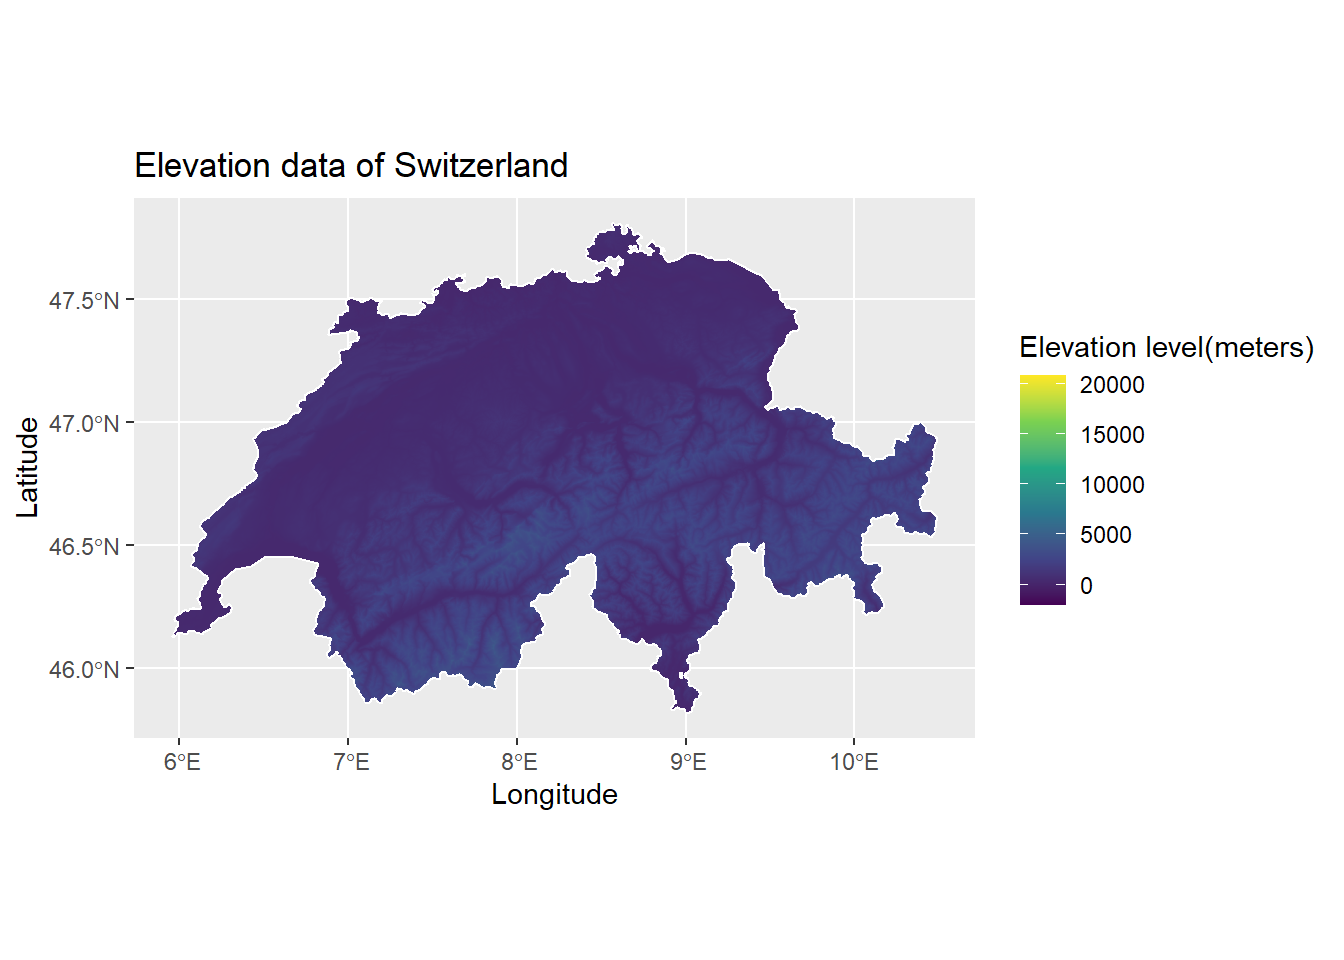
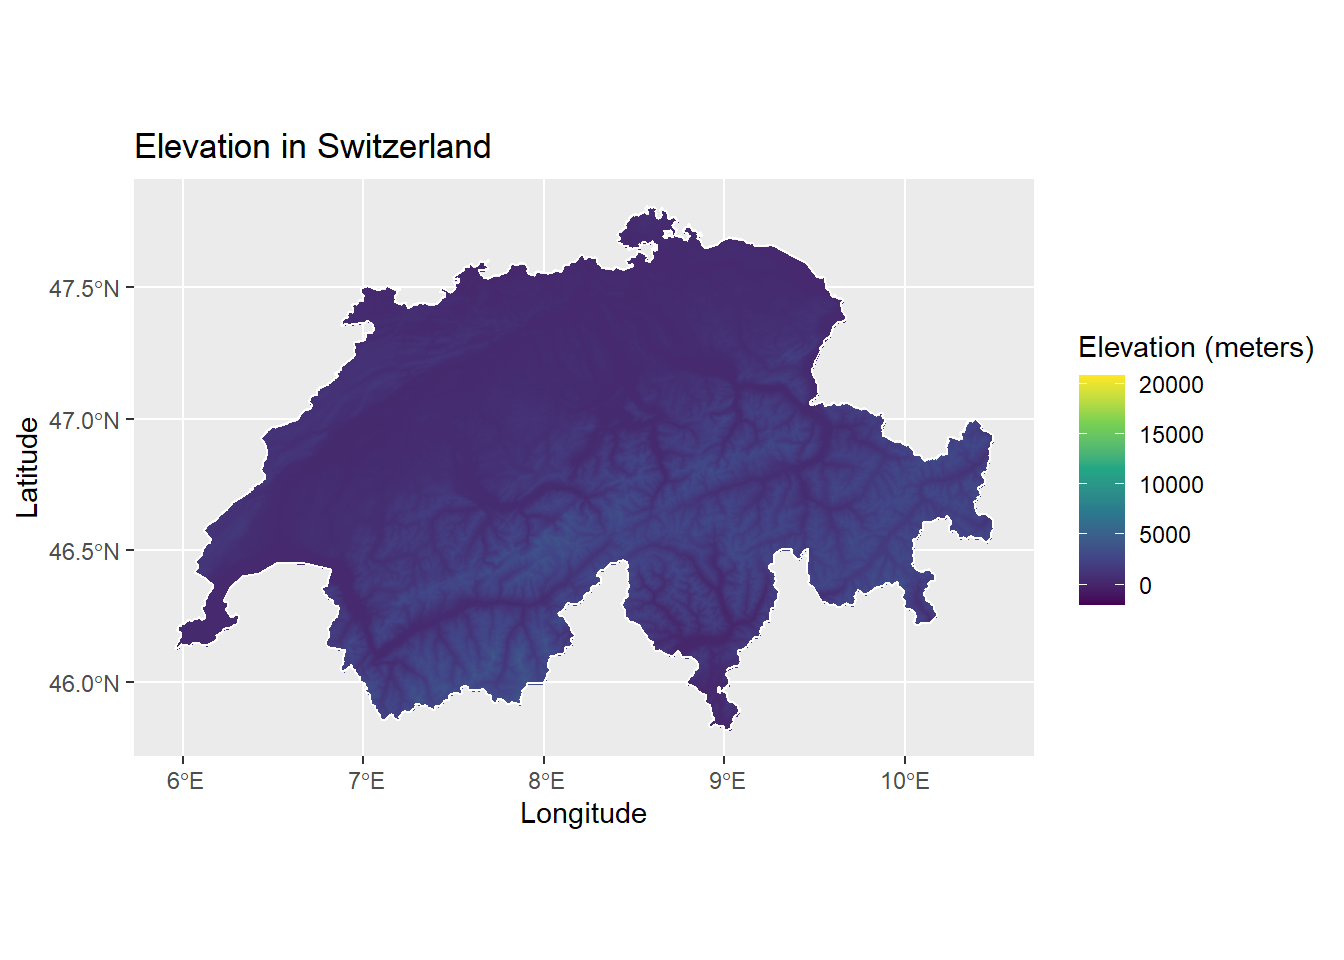
Updated Switzerland elevation map labels

diff --git a/docs/elevation.html b/docs/elevation.html
@@ -13,6 +13,7 @@
 
 <title>Elevation data</title>
 
+<script src="site_libs/header-attrs-2.7/header-attrs.js"></script>
 <script src="site_libs/jquery-1.11.3/jquery.min.js"></script>
 <meta name="viewport" content="width=device-width, initial-scale=1" />
 <link href="site_libs/bootstrap-3.3.5/css/cosmo.min.css" rel="stylesheet" />
@@ -556,7 +557,7 @@ ggplot() +
   geom_sf(data = swiss_bound, color = &quot;white&quot;, fill = NA) +
   coord_sf() +
   scale_fill_viridis_c() +
-  labs(title = &quot;Elevation data of Switzerland&quot;,x = &quot;Longitude&quot;, y = &quot;Latitude&quot;, fill = &quot;Elevation level(meters)&quot;)</code></pre>
+  labs(title = &quot;Elevation in Switzerland&quot;,x = &quot;Longitude&quot;, y = &quot;Latitude&quot;, fill = &quot;Elevation (meters)&quot;)</code></pre>
 <p><img src="elevation_files/figure-html/raster-elev-1.png" width="672" /></p>
 <p>We can also get the different administrative areas of the country Switzerland, by using the <code>ne_states</code> function from the <code>rnaturalearth</code> package. And the <code>get_elev_raster</code> function, you can get the elevation data. The following code does the same:</p>
 <p>!! NOTE: increasing or decreasing the <code>z</code> argument will make the map zoom in and out on the country by setting the appropriate z-axis value.</p>
@@ -577,7 +578,7 @@ ggplot() +
   geom_sf(data = sf_swiss, color = &quot;white&quot;, fill = NA) +
   coord_sf(xlim = c(5.3,10.8), ylim = c(45.5,47.8))+
   scale_fill_viridis_c()+
-  labs(title = &quot;Elevation data of Switzerland&quot;,x = &quot;Longitude&quot;, y = &quot;Latitude&quot;, fill = &quot;Elevation level(meters)&quot;)</code></pre>
+  labs(title = &quot;Elevation in Switzerland&quot;,x = &quot;Longitude&quot;, y = &quot;Latitude&quot;, fill = &quot;Elevation (meters)&quot;)</code></pre>
 <p><img src="elevation_files/figure-html/unnamed-chunk-3-1.png" width="672" /></p>
 <!--
 
